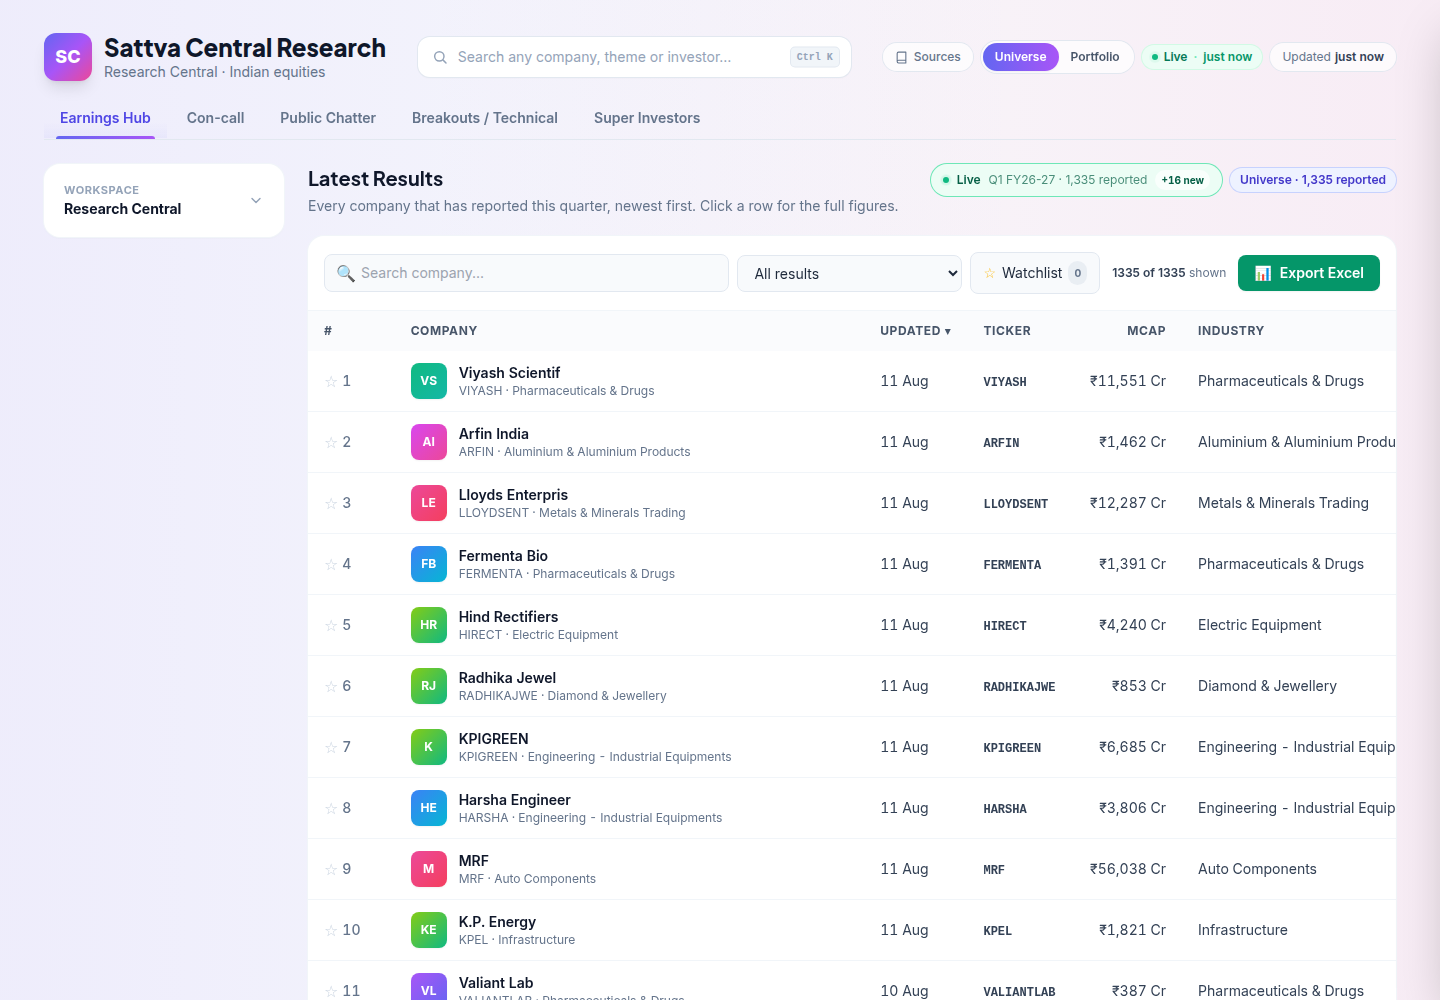
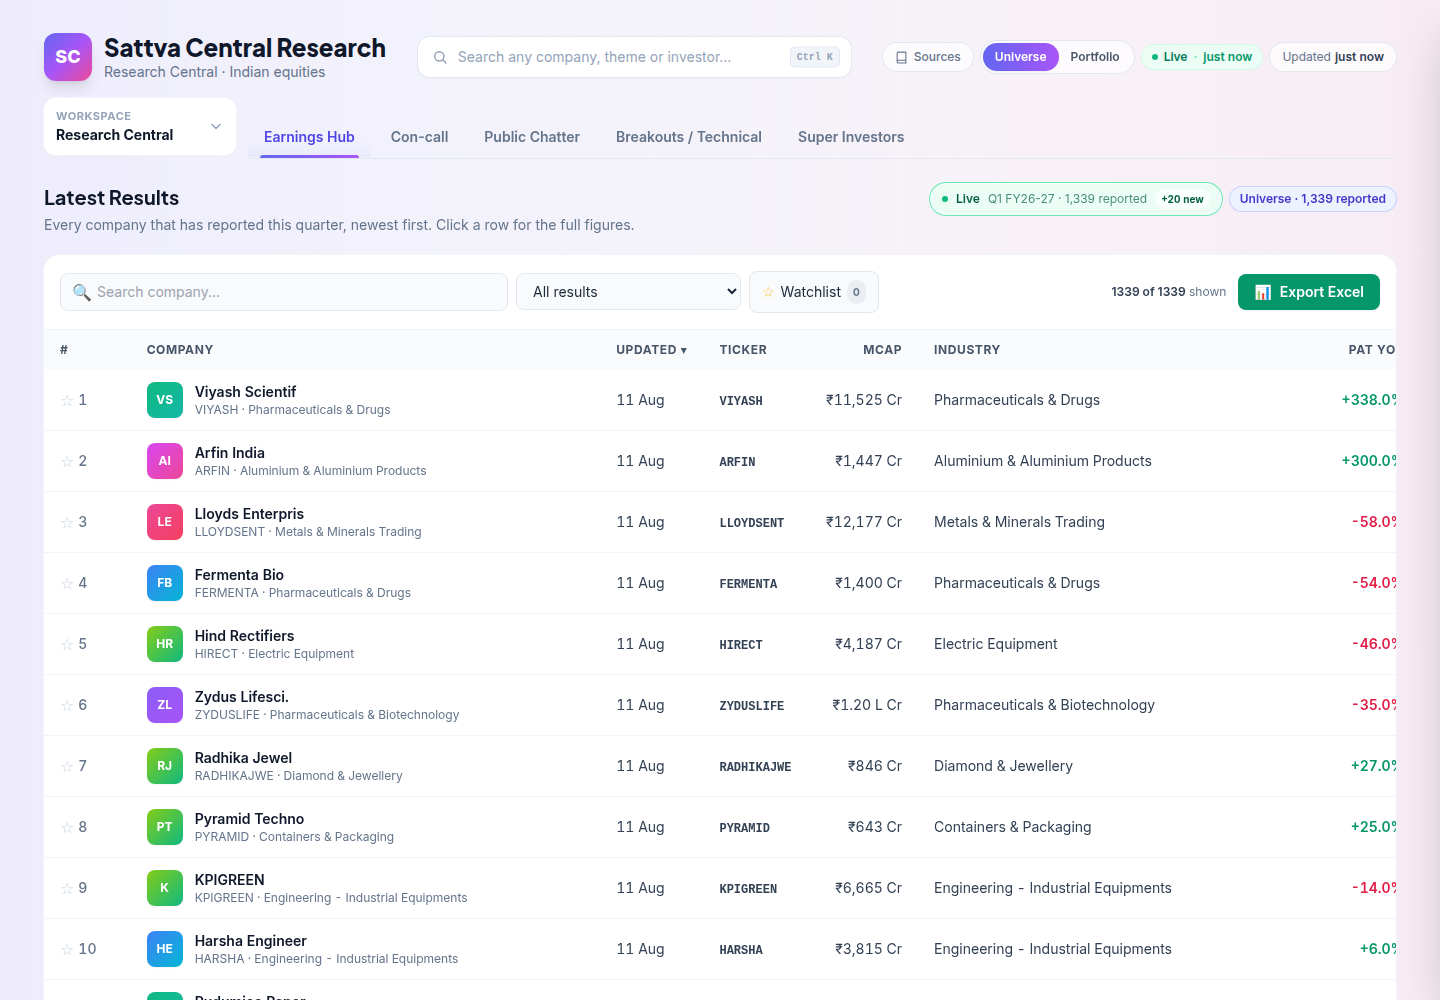
Drop the left column, give the table the full page
The workspace card was the last thing in the left column, so removing it means
the column goes and the table spans the width — 1,352px of 1,440 now, up from
roughly 1,090.

Removing it outright would have stranded Portfolio Analytics: that card was the
only way to switch workspaces. So the switcher moved into the tab-bar row
instead, where it is compact and present on every page. The rail is now purely
a sub-view list, and a tab with `subviews: []` renders with no aside at all.

Also fixed on the way: with the rail hidden, `railNav.wire()` was still being
called against markup that no longer existed, which threw on a null element and
blanked the entire mount.

Verified: the rail is gone on Earnings Hub, Portfolio Analytics is still one
click away and its own rail returns, no duplicated workspace card, and no
sideways scroll at 1440 / 1024 / 390.

verify-ui.mjs 204/204, zero console errors.

Claude-Session: https://claude.ai/code/session_016gYT9JMu5jb3PD9E1mNQA8

diff --git a/public/js/ui/shell.js b/public/js/ui/shell.js
@@ -77,11 +77,14 @@ function shellTemplate() {
     </header>
 
     <nav class="mx-auto max-w-[1400px] px-6">
-      <div id="tabbar-mount"></div>
+      <div class="flex items-end gap-3">
+        <div id="workspace-mount" class="mb-1 w-48 flex-shrink-0 rounded-xl bg-white shadow-sm ring-1 ring-slate-100"></div>
+        <div id="tabbar-mount" class="min-w-0 flex-1"></div>
+      </div>
     </nav>
 
     <div class="mx-auto flex max-w-[1400px] flex-col gap-6 px-6 py-6 lg:flex-row">
-      <aside class="lg:w-60 lg:flex-shrink-0">
+      <aside id="rail-aside" class="lg:w-60 lg:flex-shrink-0">
         <div id="aside-content" class="lg:sticky lg:top-6"></div>
       </aside>
       <main class="fade-in min-w-0 flex-1">
@@ -224,31 +227,34 @@ function renderRouteChrome(root, ws, tabModule, resolved) {
     onSelect: goSubview,
   });
 
-  // Rail is a single white card: workspace dropdown on top, sub-view list beneath a hairline.
-  // A tab with no sub-views renders just the workspace dropdown — an empty sub-view box with a
-  // heading and nothing under it reads as a loading failure rather than as "there is one view".
+  // The workspace switcher lives in the tab-bar row, not in the rail. That is what lets the rail
+  // disappear completely on a single-view tab: the content then spans the full width, and no
+  // navigation is lost — Portfolio Analytics is still one click away from every page.
+  const wsEl = $('#workspace-mount', root);
+  wsEl.innerHTML = wsDropdown.html;
+  chromeDisposers.push(wsDropdown.wire(wsEl));
+
   const hasSubviews = subviewItems.length > 0;
   const asideEl = $('#aside-content', root);
-  asideEl.innerHTML = `
-    <div class="overflow-hidden rounded-2xl bg-white shadow-sm ring-1 ring-slate-100">
-      <div class="p-2">${wsDropdown.html}</div>
-      ${
-        hasSubviews
-          ? `<div class="hidden border-t border-slate-100 p-2 lg:block">
-               <div class="px-2 pb-1.5 pt-1 text-[11px] font-bold uppercase tracking-wider text-slate-400">${escapeHtml(tabModule.meta.title)}</div>
-               ${rail.html}
-             </div>
-             <div class="border-t border-slate-100 p-2 lg:hidden">${mobileSubDropdown.html}</div>`
-          : ''
-      }
-    </div>`;
-  chromeDisposers.push(wsDropdown.wire(asideEl));
-  // Only wire what was actually rendered: a tab with no sub-views has no rail and no mobile
-  // dropdown in the DOM, and wiring them anyway throws on a null element and kills the mount.
-  if (hasSubviews) {
+  const asideWrap = $('#rail-aside', root);
+  asideWrap.classList.toggle('hidden', !hasSubviews);
+
+  if (!hasSubviews) {
+    asideEl.innerHTML = '';
+  } else {
+    asideEl.innerHTML = `
+      <div class="overflow-hidden rounded-2xl bg-white shadow-sm ring-1 ring-slate-100">
+        <div class="p-2">
+          <div class="px-2 pb-1.5 pt-1 text-[11px] font-bold uppercase tracking-wider text-slate-400">${escapeHtml(tabModule.meta.title)}</div>
+          ${rail.html}
+        </div>
+      </div>
+      <div class="mt-3 lg:hidden">${mobileSubDropdown.html}</div>`;
     chromeDisposers.push(rail.wire(asideEl));
     chromeDisposers.push(mobileSubDropdown.wire(asideEl));
   }
+
+
 
   const tabItems = ws.tabs.map((t) => ({ id: t.meta.id, label: t.meta.title }));
   const bar = tabBar({ tabs: tabItems, activeId: resolved.tab, onSelect: goTab });

diff --git a/CLAUDE.md b/CLAUDE.md
@@ -162,7 +162,10 @@ Conventions:
 - Tables scroll horizontally **inside their own container**; the page body must never scroll
   sideways. `overflow-x: hidden` on `html` *and* `body` is a backstop, not the mechanism —
   it's on `html` because the parked drill panel is `position: fixed` and `body` can't clip it.
-- The left rail collapses to a dropdown under 1024px (Tailwind `lg:`).
+- The left rail collapses to a dropdown under 1024px (Tailwind `lg:`), and **disappears entirely
+  on a tab with `subviews: []`** — the content then spans the full width. The workspace switcher
+  sits in the tab-bar row, not the rail, which is what makes that safe: dropping the rail never
+  strands a workspace.
 - Long-running lists get `.scrollbar-thin`; panels that mount fresh get `.fade-in`.
 
 ---

diff --git a/docs/HANDOFF.md b/docs/HANDOFF.md
@@ -128,7 +128,9 @@ public/js/
 ```
 
 **To add a tab:** write a module exporting `meta` / `render(ctx)` / `destroy()`, then add it to
-`WORKSPACES` in `js/ui/shell.js`. That is the only registration point.
+`WORKSPACES` in `js/ui/shell.js`. That is the only registration point. Give it `subviews: []` and
+it renders full-width with no rail — the workspace switcher lives in the tab-bar row, so nothing
+is lost by dropping the rail.
 
 **To add a data source:** three files, together — `docs/DATA-CONTRACTS.md`, the loader in
 `js/app.js` (or a lazy `js/data/*.js`), and the entry in `js/ui/sources.js` with an honest `status`.
